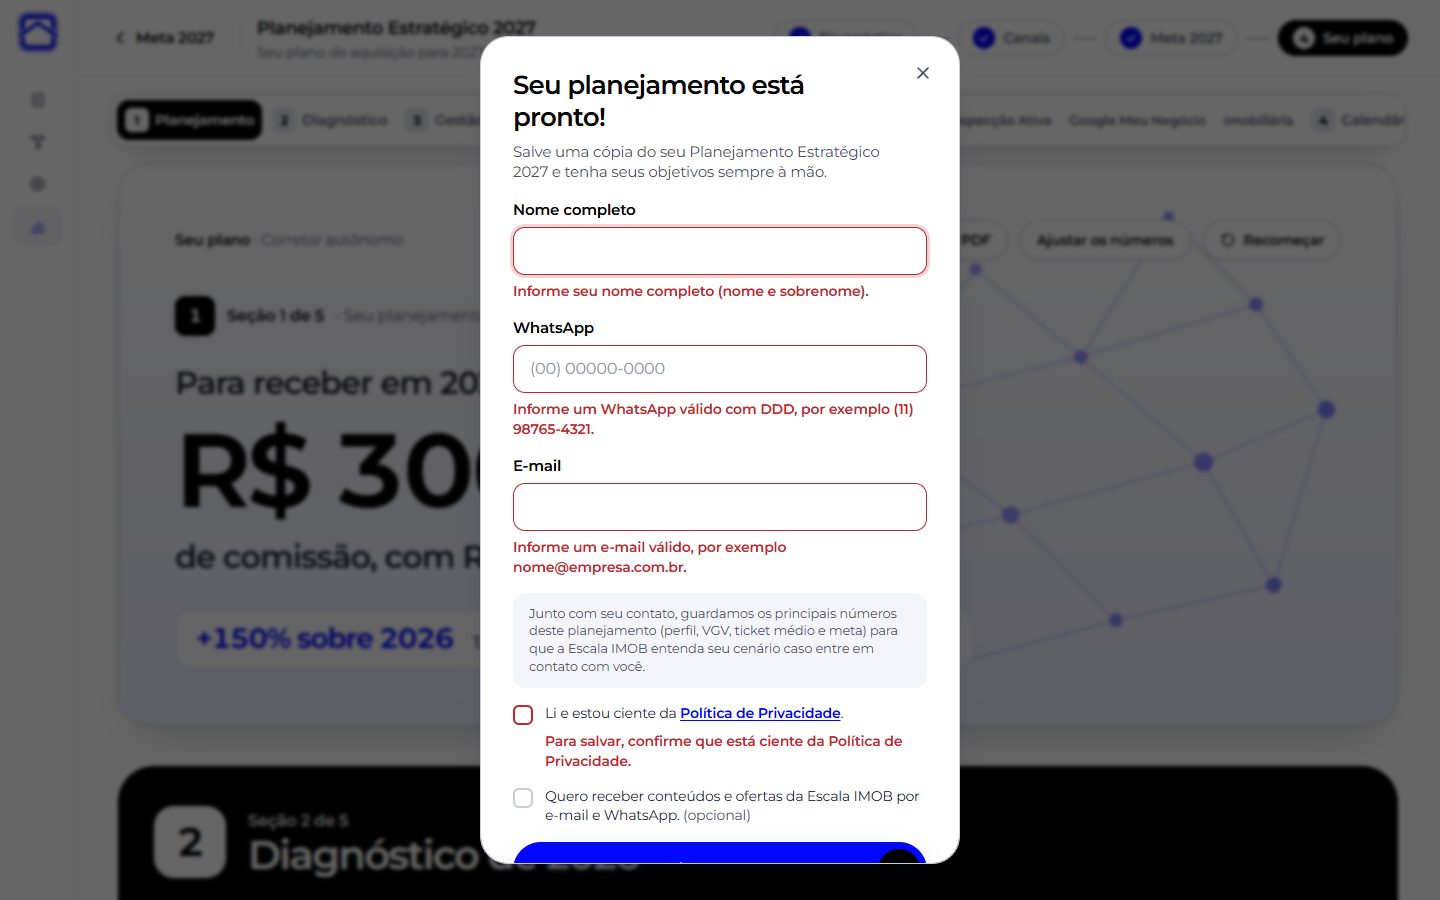
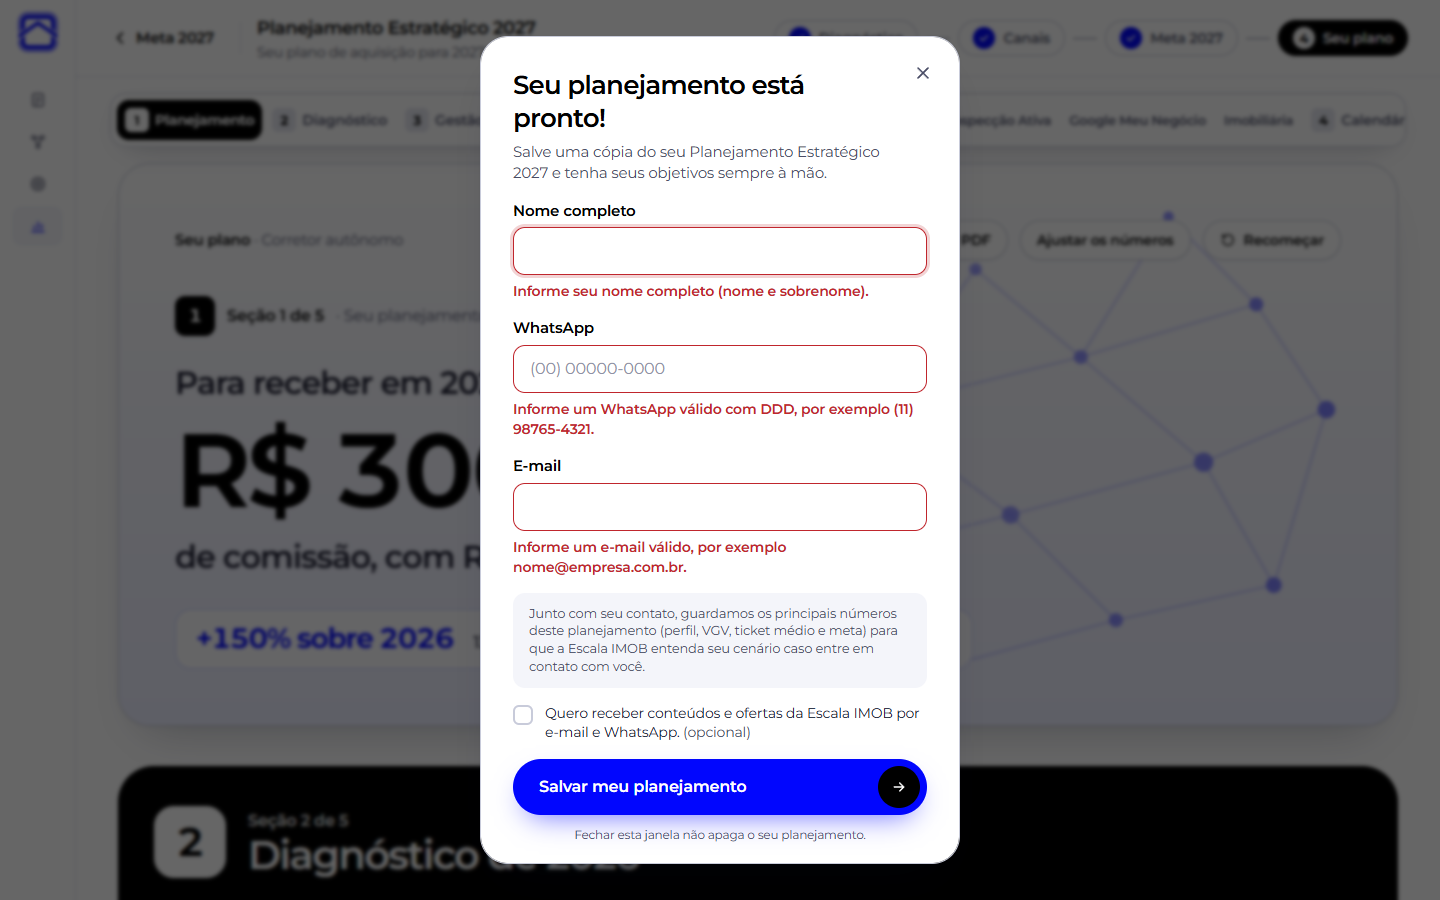
Remove a Política de Privacidade do cadastro de leads
A pedido do responsável (26/11/2026), o formulário de cadastro e o modal
de exportação deixam de pedir a ciência da Política de Privacidade.

- Campos: nome completo, WhatsApp, e-mail e autorização de marketing
  opcional (desmarcada)
- A captura passa a depender só de LEADS_SHEETS_WEBHOOK_URL,
  LEADS_SHEETS_TOKEN e LEADS_IP_SALT
- Colunas privacy_policy_version e privacy_acknowledged_at mantidas na
  planilha, em branco
- Testes, .env.example, README e guia do Apps Script atualizados

Changed region(s): [[0.3438, 0.7778, 0.6562, 0.9644], [0.3438, 0.1867, 0.5625, 0.2489], [0.3438, 0.1244, 0.4375, 0.1556]]

diff --git a/src/server/leads/config.ts b/src/server/leads/config.ts
@@ -2,15 +2,13 @@ import "server-only";
 
 /**
  * Configuração da captura de leads (somente servidor).
- * A funcionalidade fica DESLIGADA enquanto qualquer variável obrigatória estiver ausente — inclusive a
- * Política de Privacidade. Desligada, o site funciona como antes (exportação direta, sem modal).
+ * A funcionalidade fica DESLIGADA enquanto qualquer variável obrigatória estiver ausente.
+ * Desligada, o site funciona como antes (sem etapa de cadastro e exportação direta, sem modal).
  */
 export type ConfigLeads = {
   webhookUrl: string;
   token: string;
   ipSalt: string;
-  versaoPolitica: string;
-  urlPolitica: string;
   origensPermitidas: string[];
   /** Envios por IP a cada 10 min (padrão 5). */
   limiteEnvios: number;
@@ -30,20 +28,17 @@ export function lerConfigLeads(env: NodeJS.ProcessEnv = process.env): ConfigLead
   const webhookUrl = urlHttps(env.LEADS_SHEETS_WEBHOOK_URL);
   const token = env.LEADS_SHEETS_TOKEN?.trim();
   const ipSalt = env.LEADS_IP_SALT?.trim();
-  const versaoPolitica = env.PRIVACY_POLICY_VERSION?.trim();
-  const urlPolitica = urlHttps(env.NEXT_PUBLIC_PRIVACY_POLICY_URL);
-  if (!webhookUrl || !token || token.length < 24 || !ipSalt || ipSalt.length < 16 || !versaoPolitica || !urlPolitica) return null;
+  if (!webhookUrl || !token || token.length < 24 || !ipSalt || ipSalt.length < 16) return null;
   const origensPermitidas = (env.LEADS_ALLOWED_ORIGINS ?? "")
     .split(",")
     .map((o) => o.trim().replace(/\/$/, ""))
     .filter(Boolean);
   const limite = Number(env.LEADS_RATE_LIMIT);
   const limiteEnvios = Number.isInteger(limite) && limite > 0 ? limite : 5;
-  return { webhookUrl, token, ipSalt, versaoPolitica, urlPolitica, origensPermitidas, limiteEnvios };
+  return { webhookUrl, token, ipSalt, origensPermitidas, limiteEnvios };
 }
 
-/** O que o cliente pode saber: se está ativa e qual o link da política. Nunca expõe segredos. */
-export function capturaPublica(): { ativa: boolean; urlPolitica: string | null } {
-  const c = lerConfigLeads();
-  return { ativa: !!c, urlPolitica: c?.urlPolitica ?? null };
+/** O que o cliente pode saber: só se a captura está ativa. Nunca expõe segredos. */
+export function capturaPublica(): { ativa: boolean } {
+  return { ativa: !!lerConfigLeads() };
 }

diff --git a/tests/unit/api-leads.test.ts b/tests/unit/api-leads.test.ts
@@ -10,8 +10,6 @@ const CONFIG: ConfigLeads = {
   webhookUrl: "https://script.google.com/macros/s/teste/exec",
   token: "t".repeat(32),
   ipSalt: "s".repeat(20),
-  versaoPolitica: "2026-12-01",
-  urlPolitica: "https://escalaimob.com.br/privacidade",
   origensPermitidas: [],
   limiteEnvios: 5,
 };
@@ -23,7 +21,6 @@ function corpoValido(extra: Record<string, unknown> = {}) {
     nome: "Maria Souza",
     whatsapp: "(11) 98765-4321",
     email: "Maria@Exemplo.com",
-    privacidade: true,
     marketing: false,
     submission_key: "6f1c1d7e-2c9a-4c1e-9d43-0a1f2b3c4d5e",
     acao: "pdf",
@@ -104,8 +101,8 @@ describe("POST /api/leads", () => {
       referral_id: "parceiro-7",
       marketing_consent: false,
       marketing_consent_at: null,
-      privacy_policy_version: "2026-12-01",
-      privacy_acknowledged_at: "2026-11-26T12:00:00.000Z",
+      privacy_policy_version: null,
+      privacy_acknowledged_at: null,
       source_action: "pdf",
       crm_sync_status: "pending",
     });
@@ -144,10 +141,10 @@ describe("POST /api/leads", () => {
 
   it("valida no servidor e devolve erros por campo (400)", async () => {
     const { deps, destino } = montar();
-    const res = await tratarEnvioLead(requisicao(corpoValido({ nome: "M", whatsapp: "123", email: "x", privacidade: false })), deps);
+    const res = await tratarEnvioLead(requisicao(corpoValido({ nome: "M", whatsapp: "123", email: "x" })), deps);
     expect(res.status).toBe(400);
     const corpo = await res.json();
-    expect(Object.keys(corpo.campos).sort()).toEqual(["email", "nome", "privacidade", "whatsapp"]);
+    expect(Object.keys(corpo.campos).sort()).toEqual(["email", "nome", "whatsapp"]);
     expect((destino as DestinoFalso).linhas).toHaveLength(0);
   });
 
@@ -255,8 +252,6 @@ describe("configuração", () => {
     LEADS_SHEETS_WEBHOOK_URL: "https://script.google.com/macros/s/abc/exec",
     LEADS_SHEETS_TOKEN: "t".repeat(32),
     LEADS_IP_SALT: "s".repeat(20),
-    PRIVACY_POLICY_VERSION: "2026-12-01",
-    NEXT_PUBLIC_PRIVACY_POLICY_URL: "https://escalaimob.com.br/privacidade",
   } as unknown as NodeJS.ProcessEnv;
 
   it("ativa só com todas as variáveis válidas", () => {

diff --git a/src/components/Planejador.tsx b/src/components/Planejador.tsx
@@ -23,7 +23,7 @@ const SUBTITULOS = [
   "Seu plano de aquisição para 2027.",
 ];
 
-export function Planejador({ captura = { ativa: false, urlPolitica: null } }: { captura?: { ativa: boolean; urlPolitica: string | null } }) {
+export function Planejador({ captura = { ativa: false } }: { captura?: { ativa: boolean } }) {
   const { respostas: r, pronto, atualizar, ir, podeIr, recomecar } = usePlanejamento();
   const [aviso, setAviso] = useState<string | null>(null);
   const [gerando, setGerando] = useState(false);
@@ -50,7 +50,7 @@ export function Planejador({ captura = { ativa: false, urlPolitica: null } }: { 
   }, [atualizar]);
 
   // Cadastro obrigatório antes do plano quando a captura está ativa (quem abriu por link compartilhado não precisa).
-  const capturaAtiva = captura.ativa && !!captura.urlPolitica;
+  const capturaAtiva = captura.ativa;
   const precisaCadastro = capturaAtiva && !r.cadastrado && !r.viaLink;
 
   // Nunca exibir uma etapa cujos pré-requisitos não estão preenchidos (rascunho antigo ou link incompleto).
@@ -136,7 +136,6 @@ export function Planejador({ captura = { ativa: false, urlPolitica: null } }: { 
         <Casca {...base} etapa={4} subtitulo="Falta só informar para quem é o plano.">
           <EtapaCadastro
             r={r}
-            urlPolitica={captura.urlPolitica!}
             onConcluir={() => {
               // Na mesma atualização: o plano fica disponível enquanto a transição "gerando" aparece por cima.
               atualizar({ cadastrado: true, planoGerado: true, etapa: 4 });
@@ -160,7 +159,6 @@ export function Planejador({ captura = { ativa: false, urlPolitica: null } }: { 
           }}
           onRecomecar={recomecar}
           capturaAtiva={capturaAtiva && !r.cadastrado}
-          urlPolitica={captura.urlPolitica}
         />
       </Casca>
       {gerando && <Gerando onConcluir={concluirGeracao} />}

diff --git a/tests/e2e/captura-lead.spec.ts b/tests/e2e/captura-lead.spec.ts
@@ -54,7 +54,6 @@ async function preencher(page: Page, { marketing = false } = {}) {
   await d.getByLabel("Nome completo").fill("Maria Souza");
   await d.getByLabel("WhatsApp", { exact: true }).pressSequentially("11987654321");
   await d.getByLabel("E-mail", { exact: true }).fill("Maria@Exemplo.com");
-  await d.getByRole("checkbox", { name: /Política de Privacidade/ }).check();
   if (marketing) await d.getByRole("checkbox", { name: /Quero receber/ }).check();
   await page.waitForTimeout(2100); // tempo mínimo do antispam
 }
@@ -83,7 +82,7 @@ test("Baixar PDF: valida, grava na planilha, confirma e só então imprime; segu
   await expect(d.getByText("Informe seu nome completo (nome e sobrenome).")).toBeVisible();
   await expect(d.getByText(/Informe um WhatsApp válido/)).toBeVisible();
   await expect(d.getByText(/Informe um e-mail válido/)).toBeVisible();
-  await expect(d.getByText(/confirme que está ciente da Política de Privacidade/)).toBeVisible();
+  await expect(d.getByRole("checkbox", { name: /Política de Privacidade/ })).toHaveCount(0);
   await expect(d.getByLabel("Nome completo")).toBeFocused();
 
   // máscara
@@ -114,7 +113,6 @@ test("Baixar PDF: valida, grava na planilha, confirma e só então imprime; segu
     utm_campaign: "lancamento",
     referral_id: "parceiro-7",
     marketing_consent: true,
-    privacy_policy_version: "teste-e2e",
     source_action: "pdf",
   });
   expect(linhas[0].marketing_consent_at).toBeTruthy();
@@ -273,7 +271,6 @@ async function preencherCadastro(page: Page) {
   await page.getByLabel("Nome completo").fill("Maria Souza");
   await page.getByLabel("WhatsApp", { exact: true }).pressSequentially("11987654321");
   await page.getByLabel("E-mail", { exact: true }).fill("maria@exemplo.com");
-  await page.getByRole("checkbox", { name: /Política de Privacidade/ }).check();
   await page.waitForTimeout(2100);
 }
 

diff --git a/src/components/plano/Plano.tsx b/src/components/plano/Plano.tsx
@@ -37,7 +37,6 @@ type Props = {
   onRecomecar: () => void;
   /** Captura de lead ao exportar (definida no servidor). */
   capturaAtiva?: boolean;
-  urlPolitica?: string | null;
 };
 
 /* ───────── Peças ───────── */
@@ -176,7 +175,7 @@ function CartaoCanal({ l, i, r }: { l: LinhaPlano; i: number; r: Respostas }) {
 
 /* ───────── Plano ───────── */
 
-export function Plano({ r, onAjustar, onRecomecar, capturaAtiva = false, urlPolitica = null }: Props) {
+export function Plano({ r, onAjustar, onRecomecar, capturaAtiva = false }: Props) {
   const plano = useMemo(() => gerarPlano(r), [r]);
   const t = ticketMedio(r);
   const total26 = imoveis2026(r);
@@ -271,7 +270,7 @@ export function Plano({ r, onAjustar, onRecomecar, capturaAtiva = false, urlPoli
 
   /* Captura de lead antes de salvar/exportar (desligada sem configuração no servidor) */
   const executores = useMemo(() => ({ pdf: () => window.print(), link: copiar }), [copiar]);
-  const captura = useCapturaLead({ ativa: capturaAtiva && !!urlPolitica, respostas: r, executores });
+  const captura = useCapturaLead({ ativa: capturaAtiva, respostas: r, executores });
 
   const recomecar = () => {
     if (window.confirm("Apagar todas as respostas salvas neste navegador e começar um novo planejamento?")) onRecomecar();
@@ -674,7 +673,7 @@ export function Plano({ r, onAjustar, onRecomecar, capturaAtiva = false, urlPoli
           comissão.
         </p>
       </div>
-      {capturaAtiva && urlPolitica && <ModalLead c={captura.modal} urlPolitica={urlPolitica} linkPlano={() => gerarLinkPlano(r)} />}
+      {capturaAtiva && <ModalLead c={captura.modal} linkPlano={() => gerarLinkPlano(r)} />}
     </div>
   );
 }

diff --git a/src/components/lead/FormularioLead.tsx b/src/components/lead/FormularioLead.tsx
@@ -11,7 +11,6 @@ const ID_CAMPO: Record<CampoLead, string> = {
   nome: "lead-nome",
   whatsapp: "lead-whatsapp",
   email: "lead-email",
-  privacidade: "lead-privacidade",
   marketing: "lead-marketing",
 };
 
@@ -21,13 +20,11 @@ const ID_CAMPO: Record<CampoLead, string> = {
  */
 export function FormularioLead({
   f,
-  urlPolitica,
   textoBotao,
   onEnviar,
   cabecalho,
 }: {
   f: ControleFormularioLead;
-  urlPolitica: string;
   textoBotao: string;
   /** Devolve o primeiro campo inválido (para receber o foco), ou null. */
   onEnviar: () => Promise<CampoLead | null>;
@@ -96,20 +93,6 @@ export function FormularioLead({
         Escala IMOB entenda seu cenário caso entre em contato com você.
       </p>
 
-      <Caixa
-        id={ID_CAMPO.privacidade}
-        marcada={f.form.privacidade}
-        onAlterar={(v) => f.alterar("privacidade", v)}
-        erro={f.erros.privacidade}
-        disabled={f.enviando}
-      >
-        Li e estou ciente da{" "}
-        <a href={urlPolitica} target="_blank" rel="noopener noreferrer" className="font-semibold text-azul underline underline-offset-2">
-          Política de Privacidade
-          <span className="sr-only"> (abre em nova aba)</span>
-        </a>
-        .
-      </Caixa>
       <Caixa id={ID_CAMPO.marketing} marcada={f.form.marketing} onAlterar={(v) => f.alterar("marketing", v)} disabled={f.enviando}>
         Quero receber conteúdos e ofertas da Escala IMOB por e-mail e WhatsApp. <span className="text-corpo">(opcional)</span>
       </Caixa>

diff --git a/tests/unit/lead.test.ts b/tests/unit/lead.test.ts
@@ -46,7 +46,7 @@ describe("telefone", () => {
 });
 
 describe("formulário", () => {
-  const valido = { nome: "Maria Souza", whatsapp: "(11) 98765-4321", email: "Maria@Exemplo.com ", privacidade: true, marketing: false };
+  const valido = { nome: "Maria Souza", whatsapp: "(11) 98765-4321", email: "Maria@Exemplo.com ", marketing: false };
 
   it("aceita dados válidos", () => {
     expect(errosDoFormulario(valido)).toEqual({});
@@ -54,10 +54,9 @@ describe("formulário", () => {
   });
 
   it("dá uma mensagem por campo", () => {
-    const erros = errosDoFormulario({ nome: "Maria", whatsapp: "123", email: "maria@", privacidade: false, marketing: false });
-    expect(Object.keys(erros).sort()).toEqual(["email", "nome", "privacidade", "whatsapp"]);
+    const erros = errosDoFormulario({ nome: "Maria", whatsapp: "123", email: "maria@", marketing: false });
+    expect(Object.keys(erros).sort()).toEqual(["email", "nome", "whatsapp"]);
     expect(erros.nome).toMatch(/nome completo/);
-    expect(erros.privacidade).toMatch(/Política de Privacidade/);
   });
 
   it("marketing é opcional", () => {
@@ -77,7 +76,6 @@ describe("formulário", () => {
     expect(esquemaEnvioLead.safeParse(envio).success).toBe(true);
     expect(esquemaEnvioLead.safeParse({ ...envio, acao: "csv" }).success).toBe(false);
     expect(esquemaEnvioLead.safeParse({ ...envio, submission_key: "x" }).success).toBe(false);
-    expect(esquemaEnvioLead.safeParse({ ...envio, privacidade: false }).success).toBe(false);
   });
 });
 

diff --git a/src/lib/useCapturaLead.ts b/src/lib/useCapturaLead.ts
@@ -24,7 +24,7 @@ import { registrarEvento } from "@/lib/eventos";
  */
 export const CHAVE_SESSAO_LEAD = "escala-imob:lead-salvo-sessao";
 
-const FORM_VAZIO: FormularioLead = { nome: "", whatsapp: "", email: "", privacidade: false, marketing: false };
+const FORM_VAZIO: FormularioLead = { nome: "", whatsapp: "", email: "", marketing: false };
 
 export function salvoNaSessao(): boolean {
   try {
@@ -95,9 +95,9 @@ export function useFormularioLead(respostas: Respostas) {
     async (acao: AcaoLead): Promise<ResultadoEnvio> => {
       if (travado.current) return { ok: false };
       const errosLocais = errosDoFormulario(form);
-      setTocados({ nome: true, whatsapp: true, email: true, privacidade: true });
+      setTocados({ nome: true, whatsapp: true, email: true });
       setErros(errosLocais);
-      const primeiro = (["nome", "whatsapp", "email", "privacidade"] as CampoLead[]).find((c) => errosLocais[c]);
+      const primeiro = (["nome", "whatsapp", "email"] as CampoLead[]).find((c) => errosLocais[c]);
       if (primeiro) return { ok: false, campoInvalido: primeiro };
 
       travado.current = true;
@@ -106,7 +106,6 @@ export function useFormularioLead(respostas: Respostas) {
       if (!abertoEm.current) abertoEm.current = Date.now();
       const corpo: EnvioLead = {
         ...form,
-        privacidade: true, // validado acima
         submission_key: chave.current ?? (chave.current = novaChave()),
         acao,
         tempo_ms: Math.max(0, Date.now() - abertoEm.current),

diff --git a/src/server/leads/tratar.ts b/src/server/leads/tratar.ts
@@ -72,7 +72,7 @@ export async function tratarEnvioLead(req: Request, deps: Dependencias): Promise
     const campos: Partial<Record<CampoLead, string>> = {};
     for (const issue of validado.error.issues) {
       const campo = issue.path[0] as CampoLead;
-      if (["nome", "whatsapp", "email", "privacidade"].includes(campo) && !campos[campo]) campos[campo] = issue.message;
+      if (["nome", "whatsapp", "email"].includes(campo) && !campos[campo]) campos[campo] = issue.message;
     }
     log("[leads] recusado: validacao");
     return json(400, { ok: false, erro: "validacao", campos });
@@ -111,8 +111,9 @@ export async function tratarEnvioLead(req: Request, deps: Dependencias): Promise
     referral_id: envio.origem.referral_id ?? null,
     marketing_consent: envio.marketing,
     marketing_consent_at: envio.marketing ? momento : null,
-    privacy_policy_version: config.versaoPolitica,
-    privacy_acknowledged_at: momento,
+    // Sem Política de Privacidade no fluxo (decisão de 26/11/2026): colunas mantidas, em branco.
+    privacy_policy_version: null,
+    privacy_acknowledged_at: null,
     source_action: envio.acao,
     ip_hash: ipHash,
     crm_sync_status: "pending",

diff --git a/src/lib/lead.ts b/src/lib/lead.ts
@@ -55,7 +55,6 @@ export const MENSAGENS = {
   nome: "Informe seu nome completo (nome e sobrenome).",
   whatsapp: "Informe um WhatsApp válido com DDD, por exemplo (11) 98765-4321.",
   email: "Informe um e-mail válido, por exemplo nome@empresa.com.br.",
-  privacidade: "Para salvar, confirme que está ciente da Política de Privacidade.",
 } as const;
 
 export const esquemaFormularioLead = z.object({
@@ -71,12 +70,11 @@ export const esquemaFormularioLead = z.object({
     .trim()
     .max(254, MENSAGENS.email)
     .pipe(z.email(MENSAGENS.email)),
-  privacidade: z.literal(true, MENSAGENS.privacidade),
   marketing: z.boolean(),
 });
 
-/** Estado do formulário no modal (a ciência da política começa desmarcada e é validada no envio). */
-export type FormularioLead = { nome: string; whatsapp: string; email: string; privacidade: boolean; marketing: boolean };
+/** Estado do formulário (autorização de marketing opcional, começa desmarcada). */
+export type FormularioLead = { nome: string; whatsapp: string; email: string; marketing: boolean };
 export type CampoLead = keyof FormularioLead;
 
 /** Erros por campo (primeira mensagem de cada um). */

diff --git a/src/components/lead/ModalLead.tsx b/src/components/lead/ModalLead.tsx
@@ -11,7 +11,7 @@ import type { ControleModalLead } from "@/lib/useCapturaLead";
  * Desktop: cartão central. Mobile (< 640 px): painel inferior.
  * Fechar o modal não apaga o planejamento nem o que foi digitado.
  */
-export function ModalLead({ c, urlPolitica, linkPlano }: { c: ControleModalLead; urlPolitica: string; linkPlano: () => string }) {
+export function ModalLead({ c, linkPlano }: { c: ControleModalLead; linkPlano: () => string }) {
   const ref = useRef<HTMLDialogElement>(null);
   const origemFoco = useRef<HTMLElement | null>(null);
   const aberto = c.estado !== "fechado";
@@ -104,7 +104,6 @@ export function ModalLead({ c, urlPolitica, linkPlano }: { c: ControleModalLead;
           <>
           <FormularioLead
             f={c.form}
-            urlPolitica={urlPolitica}
             textoBotao="Salvar meu planejamento"
             onEnviar={c.enviar}
             cabecalho={

diff --git a/tests/e2e/fluxo.spec.ts b/tests/e2e/fluxo.spec.ts
@@ -94,7 +94,6 @@ test("fluxo completo: validação, voltar, avançar e conclusão", async ({ page
   await page.getByLabel("Nome completo").fill("Maria Souza");
   await page.getByLabel("WhatsApp", { exact: true }).pressSequentially("11987654321");
   await page.getByLabel("E-mail", { exact: true }).fill("maria@exemplo.com");
-  await page.getByRole("checkbox", { name: /Política de Privacidade/ }).check();
   await page.waitForTimeout(2100); // tempo mínimo do antispam
   await page.getByRole("button", { name: "Gerar meu Plano 2027" }).click();
 
